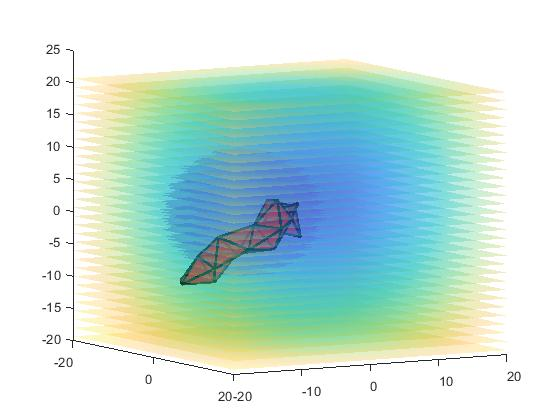
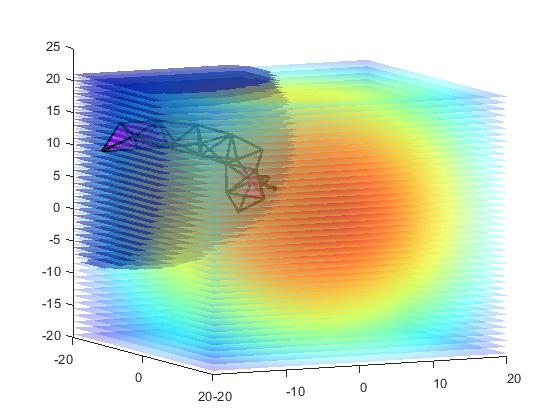
Minor fixes
Minor fixes

diff --git a/Simplex.m b/Simplex.m
@@ -5,22 +5,22 @@ classdef Simplex
         start_area = 5; %triangle start area
         start_point = [0 0]; %triangle start point
         stopping_area = 1e-5; %first stop condition on the minimum area
-        max_halvings = 20; %second stop condition, maximum halvings count
+        max_steps = 20; %second stop condition, maximum halvings count
         dt = 0; %animation delta time between frames (0 = off)
         plot = false; %enable or disable the plotting
         field = 10; %figure subspace of view
         slices = 5; %number of planes to draw the isolevel maps
-        color = 'red'; %simplex polytope color
+        color = 'blue'; %simplex polytope color
     end
     methods
         %contructor
-        function obj = Simplex(func, bounds, start_area, start_point, stopping_area, max_halvings)
+        function obj = Simplex(func, bounds, start_area, start_point, stopping_area, max_steps)
             obj.func = func;
             obj.bounds = bounds;
             obj.start_area = start_area;
             obj.start_point = start_point;
             obj.stopping_area = stopping_area;
-            obj.max_halvings = max_halvings;
+            obj.max_steps = max_steps;
         end
         
         %core function
@@ -37,11 +37,11 @@ classdef Simplex
                 %let's draw
                 figure; 
                 hold on;
-                view(0,90);
                 
                 obj.draw_function();
                 obj.draw_polytope(P);
                 obj.draw_bounds();
+                view(65,8);
             end
             
             while persist
@@ -68,13 +68,13 @@ classdef Simplex
                 if obj.watchdog(Polytopes) %check if the last polytopes are are in a flipping loop condition
                     P = obj.halve(P, j);  %halve the polytope on the last vertex pivot
                     halvings = halvings + 1; %increment the halvings counter
-
-                    if halvings >= obj.max_halvings %if the maximum halvings counter reach the limit
-                        persist = false; %break the loop
-                        continue;
-                    end
                 end
-
+                
+                if flips >= obj.max_steps %if the maximum halvings counter reach the limit
+                    persist = false; %break the loop
+                    continue;
+                end
+                
                 persist = ~obj.detect_stop(P); %if the area reach the stop area condition break the loop
             end
 
@@ -121,16 +121,22 @@ classdef Simplex
                             B(i, j) = obj.bounds{b}(X(i), Y(j), Z(k));
                         end
                     end
-                    B = B >= 0;
-                    B = double(B);
-                    B(B == 0) = NaN;
+                    Bm = B >= 0;
+                    Bm = double(Bm);
+                    B(Bm == 0) = NaN;
                     J = J.*B;
                 end
                 
                 offset = ((k-(length(Z)/2))*(obj.field/obj.slices));
-                K = (ones(length(X), length(Y))*offset)+0.1;
+                K = (ones(length(X), length(Y))*offset)+(obj.field/obj.slices)/2;
                 
-                surf(X, Y, K, J, 'FaceAlpha', 0.3,'LineStyle','none'); 
+                
+                colormap(jet);
+                hold on
+                s = surf(X, Y, K, 'FaceAlpha', 0.5,'LineStyle','none', 'cdata', J, 'cdatamapping', 'direct'); 
+                colormap(jet);
+                hold on
+                colormap(jet);
             end
         end
 
@@ -224,7 +230,7 @@ classdef Simplex
             for k = 1:length(Z)
                 for i = 1:length(X)
                     for j = 1:length(Y)
-                        V(k, i, j) = obj.func(X(i), Y(j), Z(k));
+                        V(k, i, j) = -obj.func(X(i), Y(j), Z(k));
                     end
                 end
             end
@@ -237,7 +243,8 @@ classdef Simplex
                 
                 %draw the plane with the iso-level colors of the function
                 %computed in its coordinates
-                surf(X, Y, Z, reshape(V(j,:,:), [length(X), length(Y)]), 'FaceAlpha', 0.3,'LineStyle','none', 'FaceColor','interp');
+                colormap(jet);
+                surf(X, Y, Z, reshape(V(j,:,:), [length(X), length(Y)]), 'FaceAlpha', 0.25,'LineStyle','none', 'FaceColor','interp');
             end
         end
 

diff --git a/main.m b/main.m
@@ -3,17 +3,17 @@ import Simplex
 close all
 
 %initializing Simplex class
-s = Simplex(@cost, {@bound1}, 10, [-10 -10 -10], 1e-10, 50);
+s = Simplex(@cost, {@bound1}, 10, [-17 -17 10], 1e-10, 150);
 s.dt = 0.1; %animation delta time between frames (0 = off)
 s.field = 20; %figure subspace of view
-s.slices = 15; %15 planes to draw the isolevel maps
-s.color = 'red'; %simplex politope color
+s.slices = 20; %15 planes to draw the isolevel maps
+s.color = 'magenta'; %simplex politope color
 s.plot = true; %enable the polotting
 
 [value, coordinates, flips, halvings, area] =  s.compute() %compute the algorithm
 
 function f = bound1(x, y, z) %sphere bound
-    f = -((x+5).^2 + (y+5).^2 + (z-0).^2 - 10^2);
+    f = -((x+15).^2 + (y+15).^2 + (z-10).^2 - 20^2);
 end
 
 function f = get_measure(Q, m) %get the potential from the measure in a certain position
@@ -26,7 +26,7 @@ end
 function f = cost(x, y, z)
     Q = [1 0 0; 0 1 0; 0 0 1; 0 0 0; 0 0 1; 0 1 1; 1 0 0; 1 1 1;]; %known charges
     q = [0.5 0.5 0.5]; %unknown charge
-    M = [0 1 2; 1 2 3; 3 2 4]; %measures coordinates in the R^3 space
+    M = 2*[2 0 0; 0 2 0; 0 0 2]; %measures coordinates in the R^3 space
     
     %get the measure for each measurer for all the charges
     P = zeros(1, length(M(:, 1))); 
